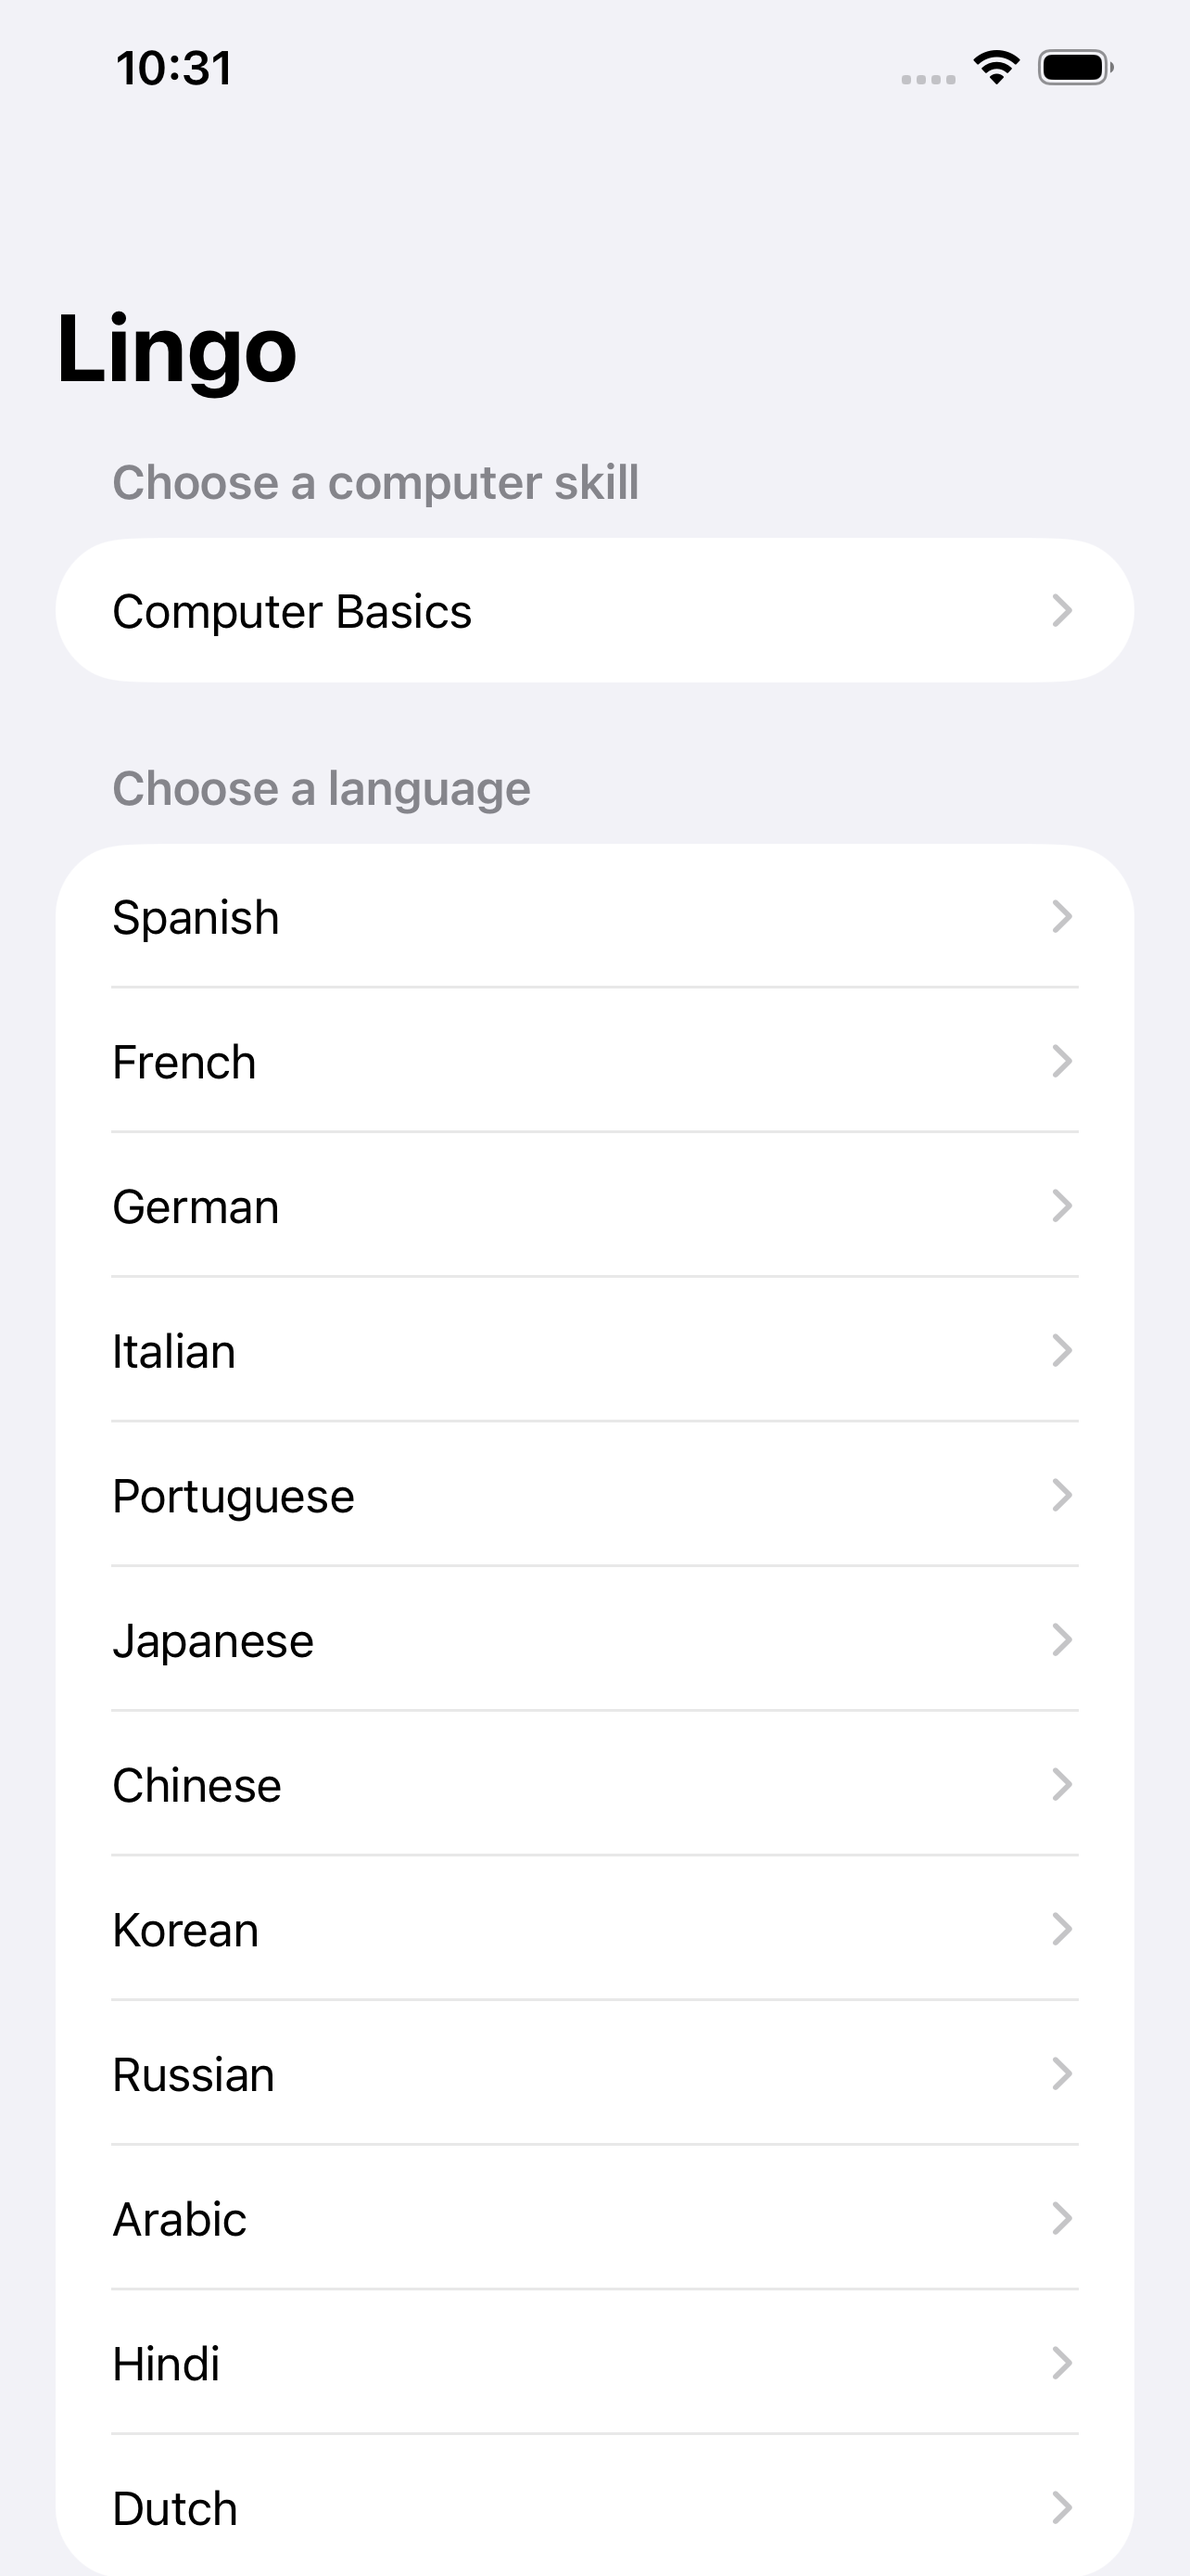
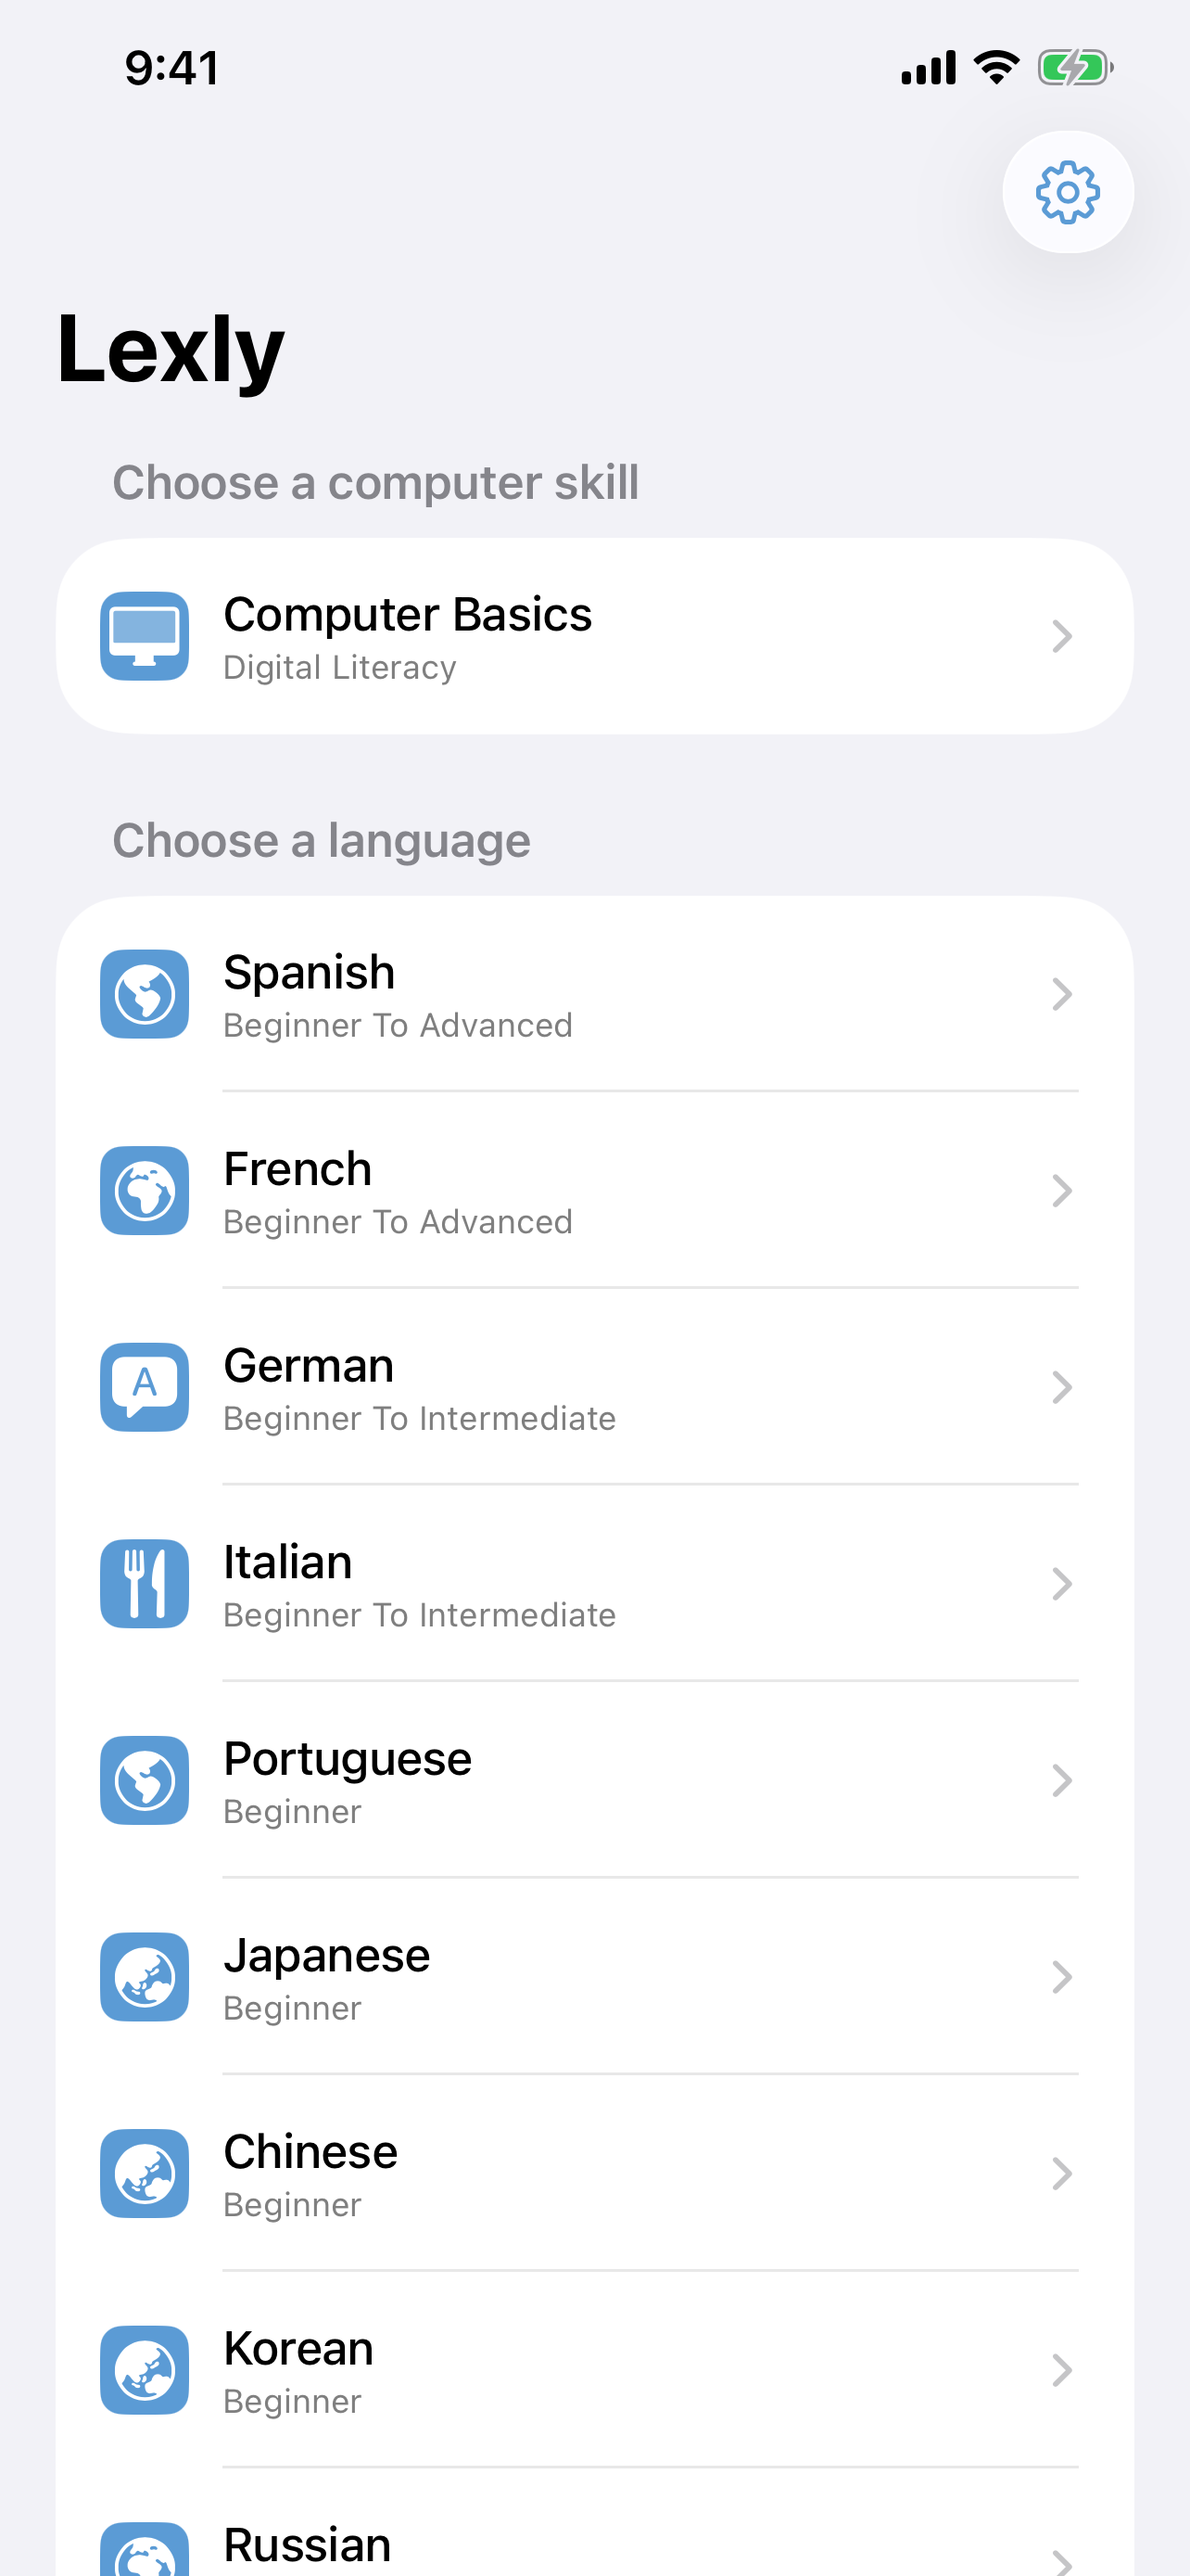
Re-shoot iOS screenshots with Lexly title, upload to 1.1.3

diff --git a/roadmap.md b/roadmap.md
@@ -115,6 +115,12 @@ Already have: 40+ courses, spaced repetition, XP, streaks, hearts, achievements,
 ## 2026-07-27
 - [x] App icon redesigned — single solid white speech bubble on #2e86de. Previous version was near-invisible (outline strokes in a tint barely off the background). All iOS/macOS PNG sizes regenerated from `assets/icon.svg` via `rsvg-convert`.
 - [x] Landing page + app CSS: removed `font-style: italic` headings, dropped Fraunces/DM Sans Google Fonts entirely, `--font`/`--font-display` now SF/Helvetica system stack.
-- [ ] **Stale "Lingo" App Store screenshots** — the uploaded 6.5"/6.7" screenshots (`screenshots/6.5/`, `screenshots/6.7/`, `screenshots/raw/mac/`) were shot before the rename and still show "Lingo" as the nav title. The app code is correct (`CatalogView.navigationTitle("Lexly")`, both Info.plists say Lexly). Re-shoot via `.asc/screenshots.json` plan (note: its `udid` is stale) + `asc screenshots upload`. This is the likely cause of the macOS 1.1.1 rejection (submission e23ab7a8-27f6-4248-ba37-807207f10d07) — Apple's API exposes no rejection text, only the dashboard/email does.
+- [x] **Stale "Lingo" App Store screenshots** — FIXED for iOS (see 1.1.3 note below). Original note: — the uploaded 6.5"/6.7" screenshots (`screenshots/6.5/`, `screenshots/6.7/`, `screenshots/raw/mac/`) were shot before the rename and still show "Lingo" as the nav title. The app code is correct (`CatalogView.navigationTitle("Lexly")`, both Info.plists say Lexly). Re-shoot via `.asc/screenshots.json` plan (note: its `udid` is stale) + `asc screenshots upload`. This is the likely cause of the macOS 1.1.1 rejection (submission e23ab7a8-27f6-4248-ba37-807207f10d07) — Apple's API exposes no rejection text, only the dashboard/email does.
 - [ ] macOS 1.1.1 REJECTED; iOS 1.1.2 is READY_FOR_DISTRIBUTION. Mac What's New is empty (`asc review doctor` warning) — fill before resubmitting.
 - [ ] Ship icon change as 1.1.3 (iOS + macOS) once screenshots are re-shot.
+
+### Screenshot re-shoot 2026-07-27 (done, iOS only)
+- Re-captured from sim (iPhone 14 Plus + 11 Pro Max), title now reads "Lexly". Saved to `screenshots/6.5|6.7/01_categories_full.png` + `screenshots/raw/`.
+- Both captures are actually APP_IPHONE_65 sizes (1284x2778, 1242x2688) — ASC rejects them for IPHONE_67, which wants 1290x2796. **No 6.7 screenshot exists yet**; need a real 6.7-class sim (iPhone 15/16 Plus).
+- Live iOS 1.1.2 screenshots are locked ("Can't Delete Screenshot After Submit"), so **iOS version 1.1.3 was created** (`cf4fd9f4-70e2-44d0-9110-a3f27fa6513d`, PREPARE_FOR_SUBMISSION) and the corrected shots uploaded to its en-US localization. Not submitted — needs a build (new icon), What's New, and the 6.7 screenshot first.
+- [ ] macOS still untouched: `screenshots/raw/mac/01_home.png` is stale, requires running the Mac app to re-shoot. macOS 1.1.1 remains REJECTED.
